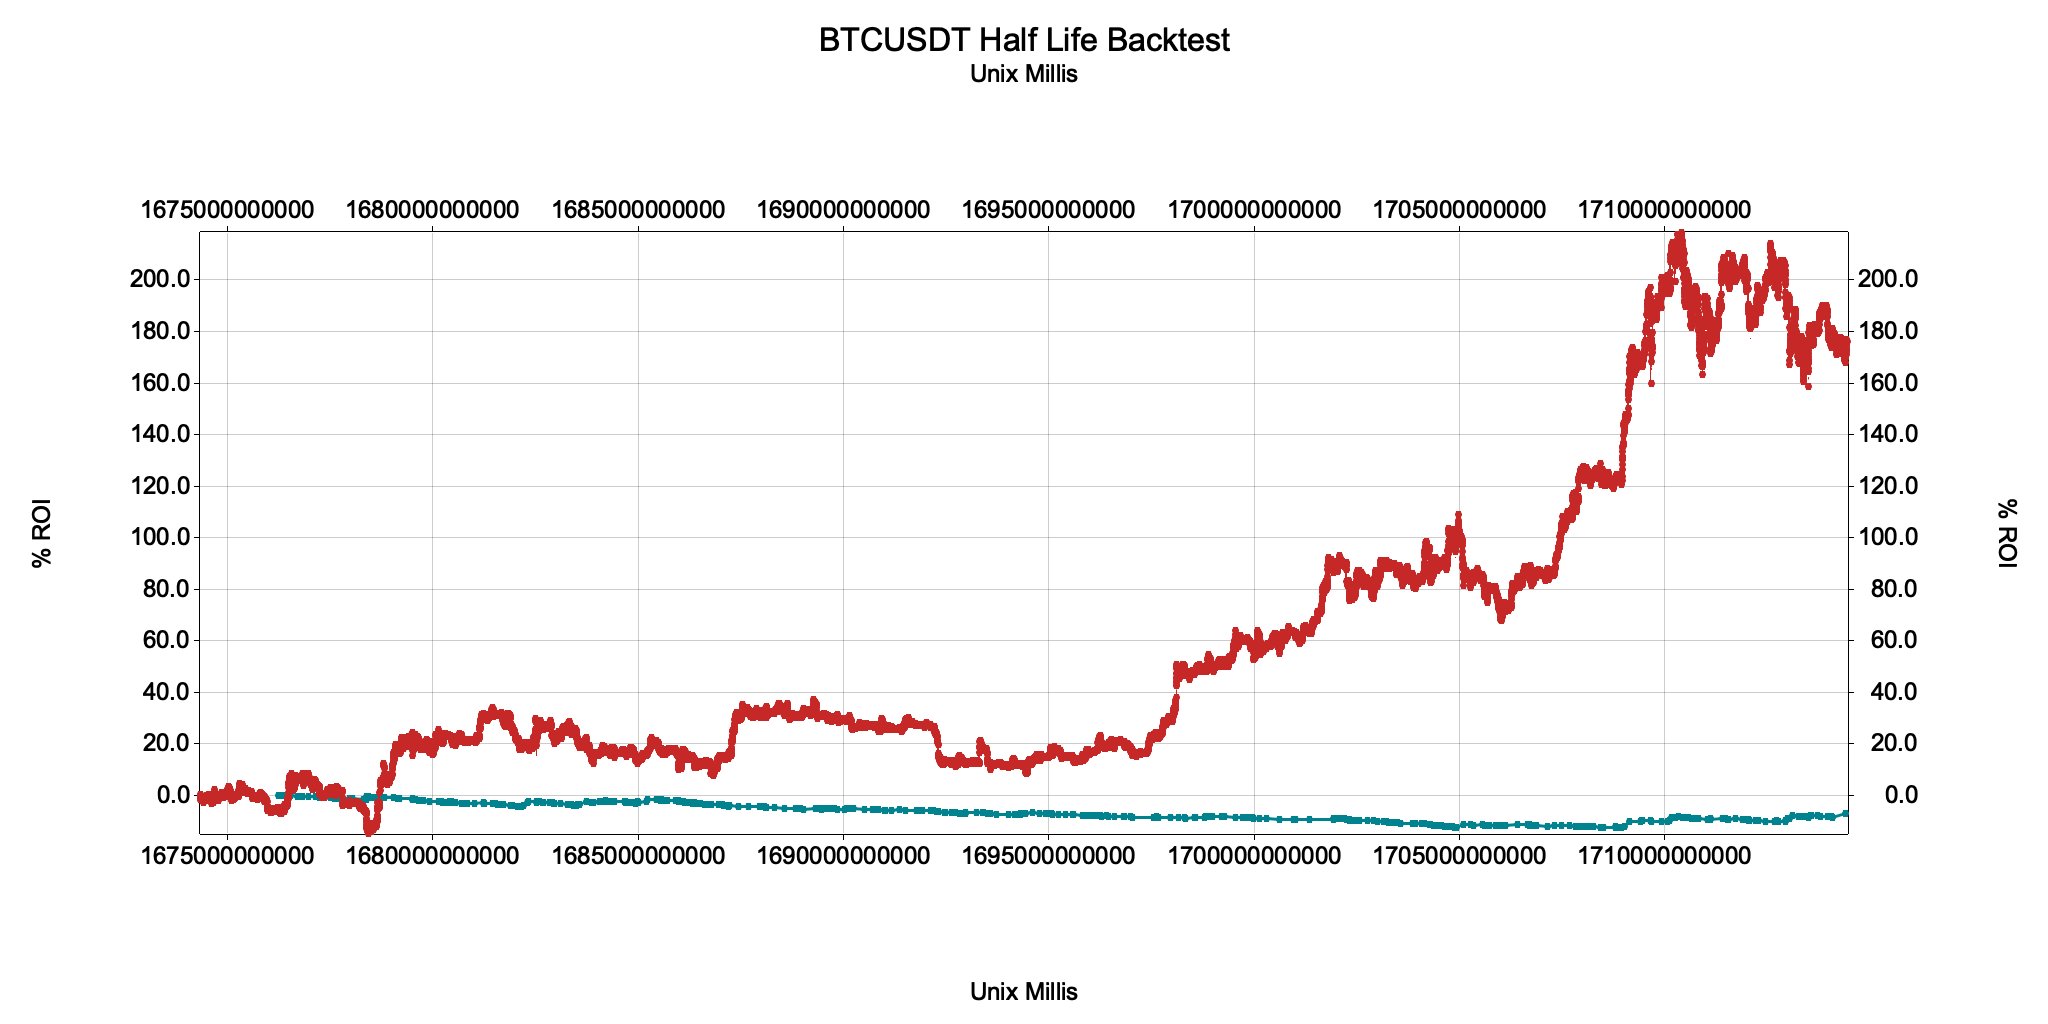
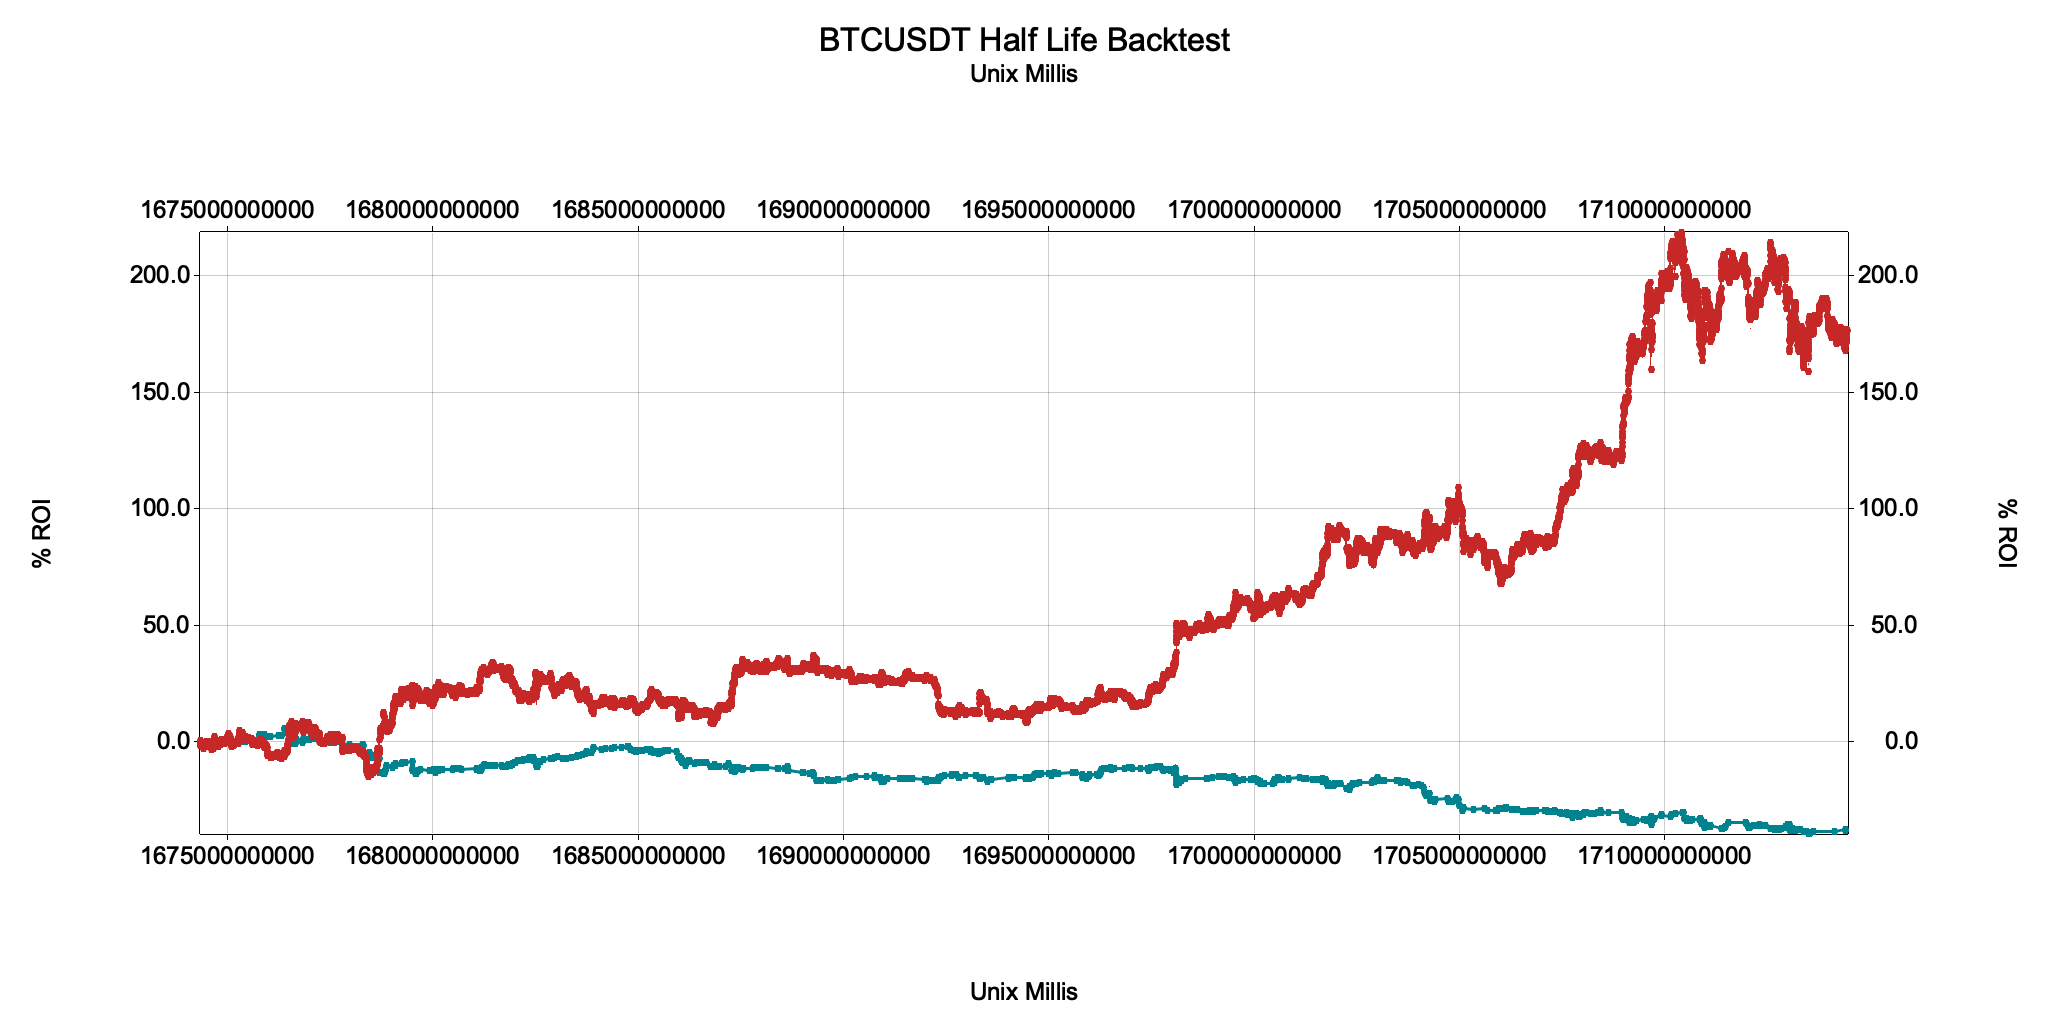
log check stop loss

diff --git a/playbook/src/strategies/half_life.rs b/playbook/src/strategies/half_life.rs
@@ -64,33 +64,35 @@ impl HalfLife {
         if ticker != self.cache.id {
           return Ok(vec![]);
         }
-
-        // most recent value is 0th index, so this is reversed to get oldest to newest
-        let series: Vec<f64> = self.cache.vec.clone().into_par_iter().map(|d| d.y.ln()).collect();
-        let spread: Vec<f64> = series.windows(2).map(|x| x[1] - x[0]).collect();
-        let lag_spread = spread[..spread.len()-1].to_vec();
+        
+        let series = Dataset::new(self.cache.vec());
+        // let series = Dataframe::normalize_series::<Data<i64, f64>>(&self.cache.vec())?;
+        let spread: Vec<f64> = series.data().windows(2).map(|x| x[1].y() - x[0].y()).collect();
+        let lag_spread = spread[..spread.len() - 1].to_vec();
 
         let y_0 = self.cache.vec[0].clone();
         let y_1 = self.cache.vec[1].clone();
+        // let y_0 = series.data()[series.data().len() - 1].clone();
+        // let y_1 = series.data()[series.data().len() - 2].clone();
 
         let z_0 = Data {
-          x: y_0.x,
+          x: y_0.x(),
           y: Self::zscore(&spread, self.window)?
         };
         let z_1 = Data {
-          x: y_1.x,
+          x: y_1.x(),
           y: Self::zscore(&lag_spread, self.window)?
         };
 
-        let enter_long = z_0.y < -self.zscore_threshold;
-        let exit_long = z_0.y > 0.0 && z_1.y < 0.0;
-        // let enter_short = z_0.y > self.zscore_threshold;
-        // let exit_short = z_0.y < 0.0 && z_1.y > 0.0;
-        let enter_short = exit_long;
-        let exit_short = enter_long;
+        let enter_long = z_0.y() < -self.zscore_threshold;
+        let exit_long = z_0.y() > 0.0 && z_1.y() < 0.0;
+        let enter_short = z_0.y > self.zscore_threshold;
+        let exit_short = z_0.y < 0.0 && z_1.y > 0.0;
+        // let enter_short = exit_long;
+        // let exit_short = enter_long;
 
         let info = SignalInfo {
-          price: y_0.y,
+          price: y_0.y(),
           date: Time::from_unix_ms(y_0.x()),
           ticker: ticker.clone()
         };
@@ -171,11 +173,10 @@ async fn btc_30m_half_life() -> anyhow::Result<()> {
   // let compound = true;
   // let leverage = 1;
   // let short_selling = true;
-
-  let capacity = 1_000;
+  
   let threshold = 2.0;
   let ticker = "BTCUSDT".to_string();
-  let stop_loss = 0.1;
+  let stop_loss = 100.0;
   let fee = 0.02;
   let bet = Bet::Percent(100.0);
   let leverage = 1;
@@ -189,22 +190,26 @@ async fn btc_30m_half_life() -> anyhow::Result<()> {
     ticker.clone()
   )?.candles;
   btc_candles.sort_by_key(|c| c.date.to_unix_ms());
-
-  // convert to natural log to linearize time series
-  let series: Vec<f64> = btc_candles.clone().into_iter().map(|d| d.close.ln()).collect();
-  // let spread: Vec<f64> = series.windows(2).map(|x| x[1] - x[0]).collect();
+  
+  // let series = Dataframe::normalize_series::<Candle>(&btc_candles)?;
+  let series = Dataset::from(btc_candles.as_slice());
+  // let spread = Dataset::new(series.data().windows(2).map(|x| Data {
+  //   x: x[1].x(),
+  //   y: x[1].y() - x[0].y()
+  // }).collect());
 
   // half life of in-sample data (index 0 to 1000)
-  let in_sample: Vec<f64> = series.clone().into_iter().take(1000).collect();
+  let in_sample: Vec<f64> = series.y().into_iter().take(1000).collect();
   let half_life = half_life(&in_sample).unwrap();
-  println!("{} half-life: {} bars", ticker, trunc!(half_life, 1));
+  println!("{} half life: {} bars", ticker, trunc!(half_life, 1));
   // use this half-life as the strategy window
-  // let window = half_life.abs().round() as usize;
-  let window = 10;
+  let window = half_life.abs().round() as usize;
+  // let window = 100;
+  let capacity = window + 2;
 
   let strat = HalfLife::new(capacity, window, threshold, ticker.clone(), Some(stop_loss));
   let mut backtest = Backtest::new(
-    strat.clone(),
+    strat,
     1_000.0,
     fee,
     bet,

diff --git a/playbook/src/strategies/stat_arb.rs b/playbook/src/strategies/stat_arb.rs
@@ -70,11 +70,11 @@ impl StatArb {
         // compare lagged spread
         let x_0 = self.x.vec[0].clone();
         // let x: Vec<f64> = self.x.vec.par_iter().map(|d| d.y()).collect();
-        let x = Dataframe::normalize_series::<i64, f64, Data<i64, f64>>(&self.x.vec())?;
+        let x = Dataframe::normalize_series::<Data<i64, f64>>(&self.x.vec())?;
 
         let y_0 = self.y.vec[0].clone();
         // let y: Vec<f64> = self.y.vec.par_iter().map(|d| d.y()).collect();
-        let y = Dataframe::normalize_series::<i64, f64, Data<i64, f64>>(&self.y.vec())?;
+        let y = Dataframe::normalize_series::<Data<i64, f64>>(&self.y.vec())?;
 
         let spread: Vec<f64> = spread_dynamic(&x.y(), &y.y()).map_err(
           |e| anyhow::anyhow!("Error calculating spread: {}", e)
@@ -229,8 +229,8 @@ async fn btc_eth_30m_stat_arb() -> anyhow::Result<()> {
   assert_eq!(x_candles.len(), y_candles.len());
 
   // normalize data using percent change from first price in time series
-  let x = Dataframe::normalize_series::<i64, f64, Candle>(&x_candles)?;
-  let y = Dataframe::normalize_series::<i64, f64, Candle>(&y_candles)?;
+  let x = Dataframe::normalize_series::<Candle>(&x_candles)?;
+  let y = Dataframe::normalize_series::<Candle>(&y_candles)?;
   let spread: Vec<f64> = spread_dynamic(&x.y(), &y.y()).map_err(
     |e| anyhow::anyhow!("Error calculating spread: {}", e)
   )?;
@@ -326,8 +326,8 @@ async fn btc_eth_30m_spread() -> anyhow::Result<()> {
   println!("Backtest ETH candles: {}", backtest.candles.get(&y_ticker).unwrap().len());
 
   // normalize data using percent change from first price in time series
-  let x = Dataframe::normalize_series::<i64, f64, Candle>(backtest.candles.get(&x_ticker).unwrap())?;
-  let y = Dataframe::normalize_series::<i64, f64, Candle>(backtest.candles.get(&y_ticker).unwrap())?;
+  let x = Dataframe::normalize_series::<Candle>(backtest.candles.get(&x_ticker).unwrap())?;
+  let y = Dataframe::normalize_series::<Candle>(backtest.candles.get(&y_ticker).unwrap())?;
   assert_eq!(x.len(), y.len());
 
   Plot::plot(
@@ -386,10 +386,10 @@ async fn btc_eth_30m_spread() -> anyhow::Result<()> {
   println!("Spread half life: {} bars", half_life);
   
   // compare lagged spread
-  let x_lag_spread = Dataframe::lagged_spread_series::<i64, f64, Candle>(
+  let x_lag_spread = Dataframe::lagged_spread_series::<Candle>(
     backtest.candles.get(&x_ticker).unwrap()
   )?;
-  let y_lag_spread = Dataframe::lagged_spread_series::<i64, f64, Candle>(
+  let y_lag_spread = Dataframe::lagged_spread_series::<Candle>(
     backtest.candles.get(&y_ticker).unwrap()
   )?;
   // take the ratio of each index in the spread series
@@ -449,10 +449,10 @@ async fn btc_eth_30m_cointegration() -> anyhow::Result<()> {
   println!("Backtest ETH candles: {}", backtest.candles.get(&y_ticker).unwrap().len());
 
   // normalize data using percent change from first price in time series
-  let x = Dataframe::normalize_series::<i64, f64, Candle>(
+  let x = Dataframe::normalize_series::<Candle>(
     backtest.candles.get(&x_ticker).unwrap()
   )?;
-  let y = Dataframe::normalize_series::<i64, f64, Candle>(
+  let y = Dataframe::normalize_series::<Candle>(
     backtest.candles.get(&y_ticker).unwrap()
   )?;
   assert_eq!(x.len(), y.len());

diff --git a/dreamrunner/src/engine.rs b/dreamrunner/src/engine.rs
@@ -223,7 +223,6 @@ impl<T, S: Strategy<T>> Engine<T, S> {
   }
 
   // todo: support shorting
-  // todo: support stop loss
   pub async fn handle_signal(&mut self, signal: Signal) -> DreamrunnerResult<()> {
     match signal {
       Signal::EnterLong(info) => {
@@ -283,7 +282,7 @@ impl<T, S: Strategy<T>> Engine<T, S> {
   }
 
   pub async fn reset_active_order(&mut self) -> DreamrunnerResult<Vec<OrderCanceled>> {
-    info!("🟡 Resetting active order");
+    info!("🟡 Reset active order");
     self.active_order.reset();
     self.cancel_all_open_orders().await
   }
@@ -367,7 +366,7 @@ impl<T, S: Strategy<T>> Engine<T, S> {
 
   /// Cancel all open orders for a single symbol
   pub async fn cancel_all_open_orders(&self) -> DreamrunnerResult<Vec<OrderCanceled>> {
-    info!("🟡 Canceling all active orders");
+    info!("🟡 Cancel all active orders");
     let req = CancelOrders::request(self.ticker.clone(), Some(10000));
     let res = self
       .client
@@ -387,7 +386,7 @@ impl<T, S: Strategy<T>> Engine<T, S> {
   }
 
   pub async fn cancel_order(&self, order_id: u64) -> DreamrunnerResult<OrderCanceled> {
-    debug!("Canceling order {}", order_id);
+    debug!("Cancel order {}", order_id);
     let req = CancelOrder::request(order_id, self.ticker.to_string(), Some(10000));
     let res = self
       .client
@@ -547,6 +546,7 @@ impl<T, S: Strategy<T>> Engine<T, S> {
       if let Some(OrderState::Active(entry)) = &self.active_order.entry {
         if entry.status == OrderStatus::Filled {
           // entry is filled, reset active order
+          info!("🟣 No stop loss and filled entry, reset active order");
           self.reset_active_order().await?;
         }
       }

diff --git a/time_series/src/data.rs b/time_series/src/data.rs
@@ -1,10 +1,10 @@
 use serde::{Serialize, Deserialize};
 
-pub trait Y {
+pub trait Y: Clone {
   fn y(&self) -> f64;
 }
 
-pub trait X {
+pub trait X: Clone {
   fn x(&self) -> i64;
 }
 
@@ -21,27 +21,37 @@ impl X for i64 {
 }
 
 #[derive(Debug, Clone, Serialize, Deserialize)]
-pub struct Data<XX: Clone + X, YY: Clone + Y> {
+pub struct Data<XX: X, YY: Y> {
   pub x: XX,
   pub y: YY,
 }
 
-impl<XX: Clone + X, YY: Clone + Y> Y for Data<XX, YY> {
+impl<XX: X, YY: Y> Y for Data<XX, YY> {
   fn y(&self) -> f64 {
     self.y.y()
   }
 }
 
-impl<XX: Clone + X, YY: Clone + Y> X for Data<XX, YY> {
+impl<XX: X, YY: Y> X for Data<XX, YY> {
   fn x(&self) -> i64 {
     self.x.x()
   }
 }
 
 #[derive(Debug, Clone, Serialize, Deserialize)]
-pub struct Dataset<XX: Clone + X, YY: Clone + Y>(pub Vec<Data<XX, YY>>);
+pub struct Dataset<XX: X, YY: Y>(pub Vec<Data<XX, YY>>);
 
-impl<XX: Clone + X, YY: Clone + Y> Dataset<XX, YY> {
+impl<T: X + Y> From<&[T]> for Dataset<i64, f64> {
+  fn from(series: &[T]) -> Self {
+    let data = series.iter().map(|d| Data {
+      x: d.x(),
+      y: d.y(),
+    }).collect();
+    Self(data)
+  }
+}
+
+impl<XX: X, YY: Y> Dataset<XX, YY> {
   pub fn new(data: Vec<Data<XX, YY>>) -> Self { Self(data) }
   
   pub fn asc_order(&self) -> Vec<Data<XX, YY>> {

diff --git a/time_series/src/dataframe.rs b/time_series/src/dataframe.rs
@@ -87,7 +87,7 @@ impl Dataframe {
   }
 
   /// Redefine each price point as a percentage change relative to the starting price.
-  pub fn normalize_series<XX: Clone + X, YY: Clone + Y, T: Clone + X + Y>(series: &[T]) -> anyhow::Result<Dataset<i64, f64>> {
+  pub fn normalize_series<T: X + Y>(series: &[T]) -> anyhow::Result<Dataset<i64, f64>> {
     let mut series = series.to_vec();
     series.sort_by_key(|c| c.x());
     let d_0 = series.first().unwrap().clone();
@@ -98,7 +98,7 @@ impl Dataframe {
     Ok(x)
   }
   
-  pub fn lagged_spread_series<XX: Clone + X, YY: Clone + Y, T: Clone + X + Y>(series: &[T]) -> anyhow::Result<Dataset<i64, f64>> {
+  pub fn lagged_spread_series<T: X + Y>(series: &[T]) -> anyhow::Result<Dataset<i64, f64>> {
     let mut series = series.to_vec();
     series.sort_by_key(|c| c.x());
     let spread: Vec<Data<i64, f64>> = series.windows(2).map(|x| Data {

diff --git a/lib/src/account.rs b/lib/src/account.rs
@@ -202,7 +202,7 @@ impl Account {
 
     /// Cancel all open orders for a single symbol
     pub async fn cancel_all_open_orders(&self) -> DreamrunnerResult<Vec<OrderCanceled>> {
-        info!("Canceling all active orders");
+        info!("Cancel all active orders");
         let req = CancelOrders::request(self.ticker.clone(), Some(10000));
         let res = self
             .client
@@ -222,7 +222,7 @@ impl Account {
     }
 
     pub async fn cancel_order(&self, order_id: u64) -> DreamrunnerResult<OrderCanceled> {
-        debug!("Canceling order {}", order_id);
+        debug!("Cancel order {}", order_id);
         let req = CancelOrder::request(order_id, self.ticker.to_string(), Some(10000));
         let res = self
             .client
